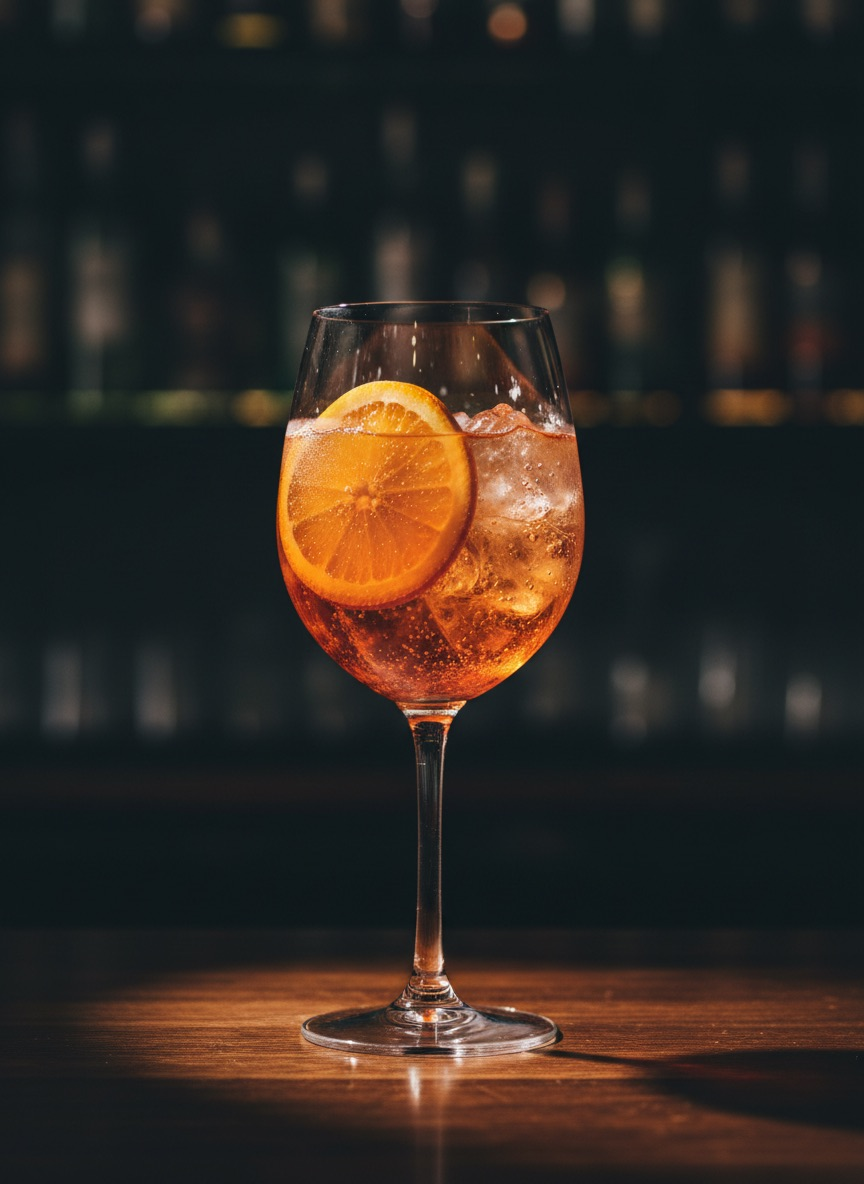
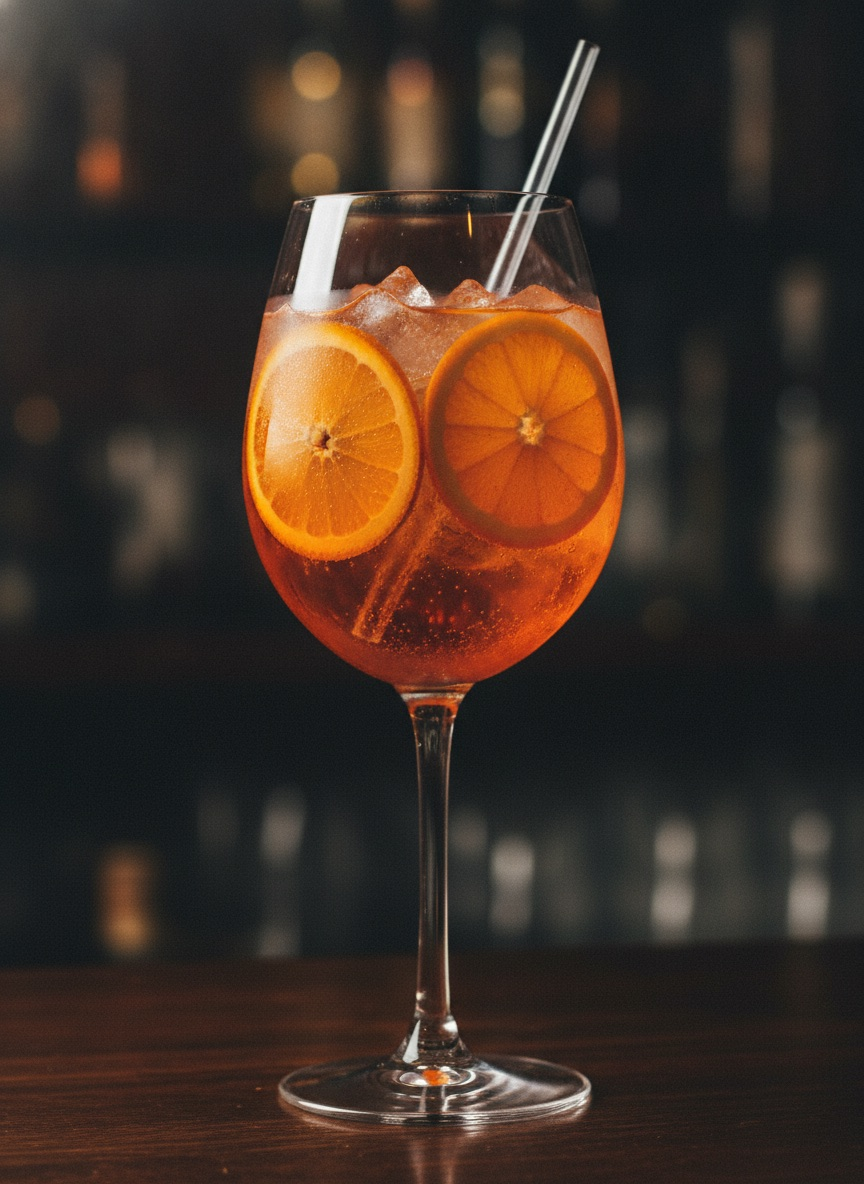
Bar station: show the whole glass, new side-on photos for all 39 Drift cocktails
- Photos were cropped by the screen (object-cover in a narrow box, a wide strip on the grid).
  They now sit in a 3:4 frame with object-contain, so the full glass, drink and garnish show.
- All 39 reference photos regenerated side-on with a slight angle, full glass and garnish in frame
  (21 new drinks, 18 replaced).
- Long quantity notes ("4 frozen strawberries") no longer run into the ingredient name.
- Ingredient display names drop "(L)" and the IQF supplier text; High Ball and Margarita glasses get the right icon.

diff --git a/components/bar/station.tsx b/components/bar/station.tsx
@@ -19,12 +19,13 @@ function PhotoColumn({ name, photo }: { name: string; photo: string | null }) {
   const [broken, setBroken] = useState(false);
   if (broken) return null;
   return (
-    <div className="w-full text-center sm:w-[216px] sm:shrink-0">
+    <div className="w-full text-center sm:w-[260px] sm:shrink-0">
+      {/* object-contain on the photos' own 3:4 shape: the whole glass, drink and garnish always show, nothing is cropped */}
       {/* eslint-disable-next-line @next/next/no-img-element */}
       <img
         src={barPhotoSrc(name, photo)}
         alt=""
-        className="h-[260px] w-full rounded-[14px] border-[0.5px] border-white/10 object-cover sm:h-[460px]"
+        className="mx-auto aspect-[3/4] w-[240px] rounded-[14px] border-[0.5px] border-white/10 bg-[#161618] object-contain sm:w-full"
         onError={() => setBroken(true)}
       />
       <p className="mt-[6px] text-[12px] text-[#8E8C85]">Drink should look similar to this once finished</p>
@@ -251,7 +252,7 @@ export function BarStation({ slug, venueName, initial }: { slug: string; venueNa
                     onClick={() => openCocktail(c.id)}
                     className={cx(CARD, "flex flex-col overflow-hidden text-left transition-transform duration-150 active:scale-[0.98] active:bg-[#232327]")}
                   >
-                    <Photo name={c.name} photo={c.photo} className="h-[230px] w-full object-cover" />
+                    <Photo name={c.name} photo={c.photo} className="h-[270px] w-full bg-[#161618] object-contain" />
                     <div className="px-4 pb-[18px] pt-[14px]">
                       <span className="text-[26px] font-medium leading-[1.2]">{c.name}</span>
                       {c.glass ? (
@@ -320,14 +321,14 @@ function Detail({ item, onBack, menu, now }: { item: BarItem; onBack: () => void
                     const d = ingredientDisplay(line);
                     return (
                       <li key={i} className={cx(ROW, "flex items-start gap-[14px] py-[14px]")}>
-                        <div className="w-[112px] shrink-0">
+                        <div className="w-[128px] shrink-0">
                           {d.shots ? (
                             <>
                               <p className="text-[30px] font-medium leading-[1.1] text-[#D9C3A0]">{d.shots}</p>
                               <p className="mt-[2px] text-[13px] text-[#8E8C85]">{d.qty}</p>
                             </>
                           ) : (
-                            <p className="text-[27px] font-medium leading-[1.15] text-[#D9C3A0]">{d.plain}</p>
+                            <p className={cx("font-medium text-[#D9C3A0] [overflow-wrap:anywhere]", d.plain.length > 9 ? "text-[20px] leading-[1.2]" : "text-[27px] leading-[1.15]")}>{d.plain}</p>
                           )}
                         </div>
                         <div className="min-w-0">

diff --git a/lib/bar.ts b/lib/bar.ts
@@ -113,10 +113,14 @@ export function qtyText(qty: number, unit: string): string {
 /**
  * Ingredient names in the costing app carry the pack size they're bought in ("Aperol (700ml)",
  * "Petes Pure Prosecco (bottle 750ml)"). On the bar that reads like a pour size, so it's dropped.
- * Other brackets ("House Pre-Mix (TBC)") stay.
+ * A bare "(L)" is a pack unit too, and frozen-fruit lines drop the "IQF" and the supplier ("Strawberries IQF (Caterers Choice)"
+ * reads "Strawberries"). Other brackets ("House Pre-Mix (TBC)") stay.
  */
 export function barIngredientName(name: string): string {
-  return name.replace(/\s*\((?:[a-z]+\s+)?\d+(?:\.\d+)?\s*(?:ml|l|g|kg)\)\s*$/i, "").trim() || name.trim();
+  let n = name;
+  if (/\bIQF\b/i.test(n)) n = n.replace(/\s*\([^)]*\)\s*$/, "").replace(/\s+IQF\b/i, "");
+  n = n.replace(/\s*\((?:[a-z]+\s+)?\d+(?:\.\d+)?\s*(?:ml|l|g|kg)\)\s*$/i, "").replace(/\s*\(L\)\s*$/, "");
+  return n.trim() || name.trim();
 }
 
 export interface IngredientDisplay {
@@ -205,8 +209,8 @@ export function glassType(glass: string | null | undefined): GlassType {
   const g = (glass ?? "").toLowerCase();
   if (g.includes("martini")) return "martini";
   if (g.includes("rocks")) return "rocks";
-  if (g.includes("tall") || g.includes("highball")) return "highball";
-  if (g.includes("coupe")) return "coupe";
+  if (g.includes("tall") || g.includes("highball") || g.includes("high ball")) return "highball";
+  if (g.includes("coupe") || g.includes("margarita")) return "coupe";
   if (g.includes("wine")) return "wine";
   return "rocks";
 }

diff --git a/tests/bar.test.ts b/tests/bar.test.ts
@@ -59,7 +59,9 @@ describe("barIngredientName", () => {
     expect(barIngredientName("Petes Pure Prosecco (bottle 750ml)")).toBe("Petes Pure Prosecco");
     expect(barIngredientName("Lime Juice (2L)")).toBe("Lime Juice");
     expect(barIngredientName("House Pre-Mix (TBC)")).toBe("House Pre-Mix (TBC)");
-    expect(barIngredientName("Lime Juice (L)")).toBe("Lime Juice (L)");
+    expect(barIngredientName("Lime Juice (L)")).toBe("Lime Juice");
+    expect(barIngredientName("Strawberries IQF (Caterers Choice)")).toBe("Strawberries");
+    expect(barIngredientName("Mango Chunks IQF (Entyce)")).toBe("Mango Chunks");
     expect(barIngredientName("Dried Chilli (Each)")).toBe("Dried Chilli (Each)");
   });
 });
@@ -70,6 +72,8 @@ describe("glassType", () => {
     expect(glassType("Rocks Glass, Salt Rim")).toBe("rocks");
     expect(glassType("Tall Glass")).toBe("highball");
     expect(glassType("Highball Glass")).toBe("highball");
+    expect(glassType("High Ball Glass, Salt Rim")).toBe("highball");
+    expect(glassType("Margarita Glass, Coconut Rim")).toBe("coupe");
     expect(glassType("Coupe Glass")).toBe("coupe");
     expect(glassType("Wine Glass")).toBe("wine");
     expect(glassType("Poco Glass, Coconut Rim")).toBe("rocks");
